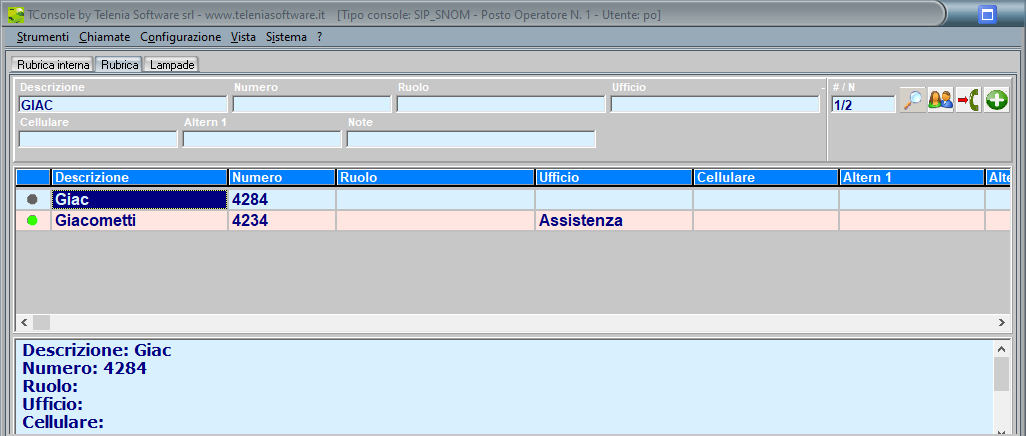
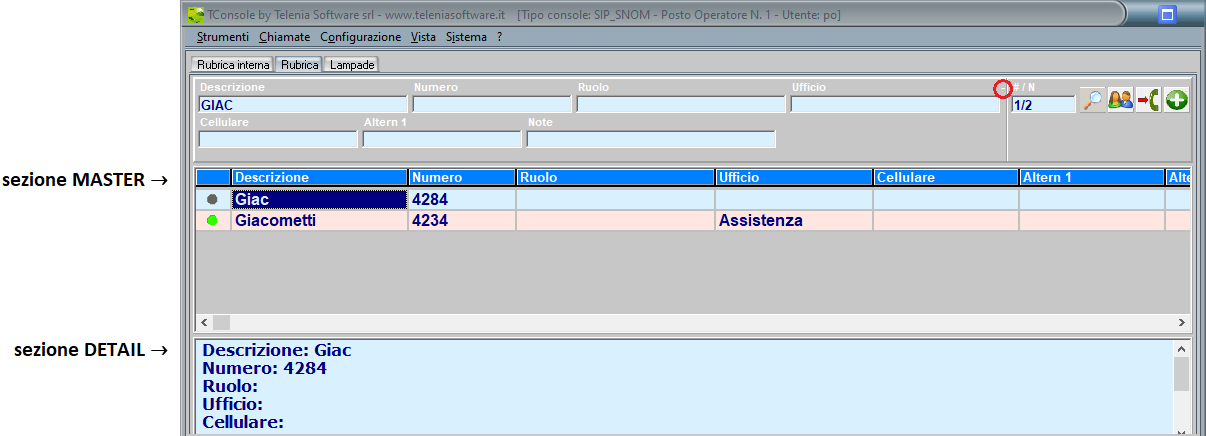
completamento vista normale

diff --git a/source/projects/TCONSOLE/UTENTE/VISTANORMALE/VistaNormale.rst b/source/projects/TCONSOLE/UTENTE/VISTANORMALE/VistaNormale.rst
@@ -1,3 +1,4 @@
+.. _QBE: https://en.wikipedia.org/wiki/Query_by_Example
 .. _Vista Normale:
 
 =============
@@ -332,9 +333,11 @@ Il contesto Rubrica si compone delle seguenti parti:
 - dettaglio dei nominativi trovati
 - quantità di nominativi ricercati
 - tasto di ricerca (da tastiera tasto *[Invio]* **non del tastierino numerico**)
-- tasto di ricerca alternativa (da tastiera *F11* - vedi parametro :ref:`RIC_ALT`) 
+- tasto di ricerca alternativa (da tastiera *F11* - vedi parametro :ref:`RIC_ALT`)
 - tasto per la composizione automatica dei numeri telefonici (da tastiera *F12* - vedi parametro :ref:`F12`)
 - funzioni per la manutenzione della Rubrica (inserimento/modifica dei contatti o impostazione dei colori)
+
+.. important:: Tutti i parametri per la configurazione dei campi di ricerca e di visualizzazione (etichetta visualizzata e ordine di presentazione) sono descritti in :ref:`RubInt.ini e RubEst.ini`.
 
 .. image:: /images/TCONSOLE/UTENTE/CONSOLE/Rubrica.png
 
@@ -343,30 +346,74 @@ Ricerca nominativi
 
 Per eseguire una nuova ricerca seguire le seguenti istruzioni:
 
-- premere il tasto *F3* della tastiera: a questo punto il cursore si posiziona nel primo campo di ricerca (default *Descrizione*) svuotando l'eventuale ricerca precedente;
+- premere il tasto *F3* della tastiera: a questo punto il cursore si posiziona nel primo campo di ricerca (default *Descrizione*) svuotando tutti i campi dall'eventuale compilazione dovuta ad una ricerca precedente
 - se desiderato, indicare le opzioni di ricerca compilando i vari campi in modo da restringere la ricerca effettuata. Il tasto *Tab* consente di spostarsi sul campo successivo
-- cliccare sul pulsante *Cerca* ("lente d'ingrandimento") o premere il tasto *Invio* (NON del tastierino numerico);
+- cliccare sul pulsante *Cerca* ("lente d'ingrandimento") o premere il tasto *Invio* (NON del tastierino numerico)
 
-I nominativi soddisfacenti le opzioni di ricerca verranno elencati nell’area di visualizzazione: spostando il cursore con i tasti freccia o selezionando un particolare nominativo con il mouse, il dettaglio del record viene mostrato nelle apposite finestre sottostanti.
+I nominativi soddisfacenti le opzioni di ricerca verranno elencati nell’area di visualizzazione (sezione **MASTER**): spostando il cursore con i tasti freccia o selezionando un particolare nominativo con il mouse, il dettaglio del record viene mostrato nelle apposite finestre sottostanti (sezione **DETAIL**).
 
-.. note:: Se nessun dato viene specificato nei campi di ricerca, verranno visualizzati **tutti** i nominativi presenti in rubrica.
+.. important:: Se nessun dato viene specificato nei campi di ricerca, verranno restituiti **tutti** i nominativi presenti in rubrica.
 
-Ricerca contestuale: si intende la ricerca di una parola in tutti i campi di rubrica (si utilizza sempre le logiche qbe). 
-Per attivare la ricerca contestuale si utilizza il tasto [-] (selezionabile con il mouse) in alto a sx nel riquadro delle edit di ricerca oppure utilizzando la sequenza da tastiera *Ctrl+Shift+T*. Ripetendo la stessa sequenza si passa nella modalità di ricerca standard.
-I tasti di ricerca possono essere spostati nel lato destro o sinistro della finestra in base al parametro utente opportunamente configurato: *Tasti Ricerca a Sx SI/NO*
+.. note:: Per la ricerca in rubrica si utilizzano le logiche `QBE`_ (*Query By Example*).
+
+I tasti di ricerca possono anche essere spostati nel lato destro o sinistro della finestra in base al parametro utente opportunamente configurato: *Tasti Ricerca a Sx = SI/NO* (vedi :ref:`Profilo Utente`).
+
+Ricerca testuale/Ricerca multicampo
+-----------------------------------
+
+La *ricerca testuale* è una diversa modalità di ricerca che avviene ricercando la parola in tutti i campi di Rubrica, anziché nel singolo campo di volta in volta specificato.
+
+Per attivare questa modalità cliccare con il mouse sul tasto **[-]** in alto a destra nel riquadro dei campi di ricerca (vedi circoletto rosso nell'immagine precedente) oppure utilizzare la combinazione di tasti *Ctrl+Shift+T*.
+
+Ripetendo la stessa manovra (il pulsante in questo caso è diventato **[+]**) si passa alla modalità di ricerca multicampo standard.
+
+.. note:: Questa configurazione viene mantenuta anche dopo la chiusura di TConsole.
 
 Composizione automatica
 -----------------------
 
+È possibile comporre automaticamente il numero associato ad un nominativo cliccando sui pulsanti *F12* (**Invio numero alla consolle**) presente in alto a destra del contesto di Rubrica o, da tastiera, premendo il tasto *F12*.
+
+Un’estensione alla composizione automatica è data dalla pressione contemporanea dei tasti *Shift*, *Ctrl*, *Alt* ed il tasto *F12*: in questo caso il numero composto è prelevato da uno dei 3 campi alternativi opportunamente configurati. Ad es., facendo riferimento alla figura precedente, premendo *Shift+F12* viene composto, se popolato, il numero presente nella colonna *Cellulare*.
+
+La configurazione dei campi da utilizzare per la composizione automatica è descritta nel parametro :ref:`F12`.
+
 Inserimento nominativi
 ----------------------
+
+La pressione del pulsante **Inser.** o della combinazione di tasti *Ctrl+Shift+I* permette l’inserimento di un nuovo nominativo in Rubrica.
+
+L’operazione si realizza compilando opportunamente i campi delle finestre sotto riportate, agendo sui pannelli *Dati 1*, *Dati 2* e *Dati 3*.
+
+.. image:: /images/TCONSOLE/UTENTE/CONSOLE/RubricaInserisciDati1.png
+.. image:: /images/TCONSOLE/UTENTE/CONSOLE/RubricaInserisciDati2.png
+.. image:: /images/TCONSOLE/UTENTE/CONSOLE/RubricaInserisciDati3.png
+
+.. important :: È importante specificare la Rete (pannello Dati 1) in modo da specificare il tipo del numero telefonico (interno o esterno).
+
+La pressione del pulsante *Inserisci* crea nell’archivio un nuovo nominativo con i dati specificati.
+
+La pressione del pulsante *Annulla* non inserisce alcun nominativo.
+
+I pulsanti *Modifica* ed *Elimina* in questa fase sono disabilitati.
 
 Modifica e cancellazione nominativi
 -----------------------------------
 
-.. xxx
+Facendo clic con il tasto destro del mouse, seguito dal clic sulla voce *Modifica*, su un nominativo risultato di una ricerca oppure premendo il tasto *Ctrl+Shift+M* con un nominativo selezionato, è possibile accedere alla finestra di modifica/cancellazione (diversa da quella di inserimento solamente per i pulsanti *Modifica* ed *Elimina* abilitati).
 
-.. .. image:: /images/TCONSOLE/UTENTE/CONSOLE/info.png
+.. image:: /images/TCONSOLE/UTENTE/CONSOLE/RubricaModificaDati1.png
+.. image:: /images/TCONSOLE/UTENTE/CONSOLE/RubricaModificaDati2.png
+
+Per modificare il nominativo compilare opportunamente i campi desiderati (facendo attenzione al campo *Rete*) e terminare cliccando sul pulsante *Modifica*: il nominativo verrà immediatamente aggiornato in rubrica.
+
+Per cancellare il nominativo cliccare invece sul pulsante *Elimina*.
+
+La pressione del pulsante *Annulla* lascia il nominativo inalterato.
+
+Il pulsante *Inserisci* in questa fase è disabilitato.
+
+.. note :: Sia la modifica che l'eliminazione di un contatto prevedono una seconda finestra di conferma per evitare di eseguire la manovra accidentalmente.
 
 .. rubric:: Note
 

diff --git a/source/projects/TCONSOLE/INSTALLAZIONE/REQUISITI/RequisitiGenerali.rst b/source/projects/TCONSOLE/INSTALLAZIONE/REQUISITI/RequisitiGenerali.rst
@@ -24,7 +24,7 @@ Hardware
 - Scheda audio per Sintesi Vocale e segnalazioni acustiche
 - 5 porte USB libere (per dongle, tastiera QWERTY, mouse, barra Braille, alimentazione mixer)
 - Monitor 4/3 o 16/9 con risoluzione minima 1280*1024
-- Tastiera QWERTY con tastierino numerico (keypad)
+- Tastiera QWERTY **con tastierino numerico** (*Keypad*)
 - Mouse
 
 Opzionali

diff --git a/source/projects/TCONSOLE/INSTALLAZIONE/CONFIGURAZIONE/RubIntRubEst.rst b/source/projects/TCONSOLE/INSTALLAZIONE/CONFIGURAZIONE/RubIntRubEst.rst
@@ -1,3 +1,5 @@
+.. _RubInt.ini e RubEst.ini:
+
 =======================
 RubInt.ini e RubEst.ini
 =======================
